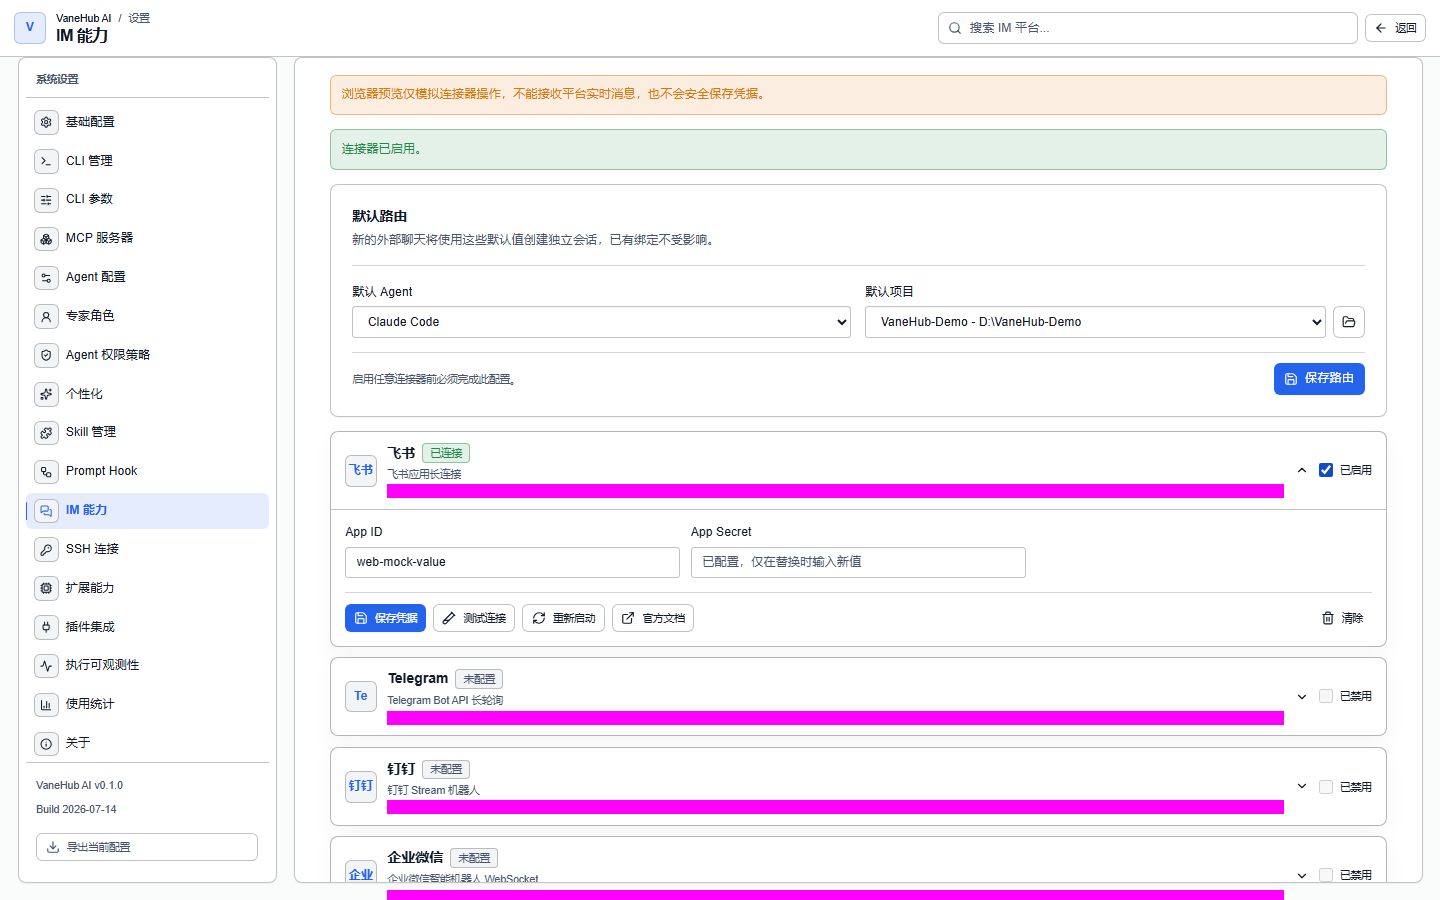
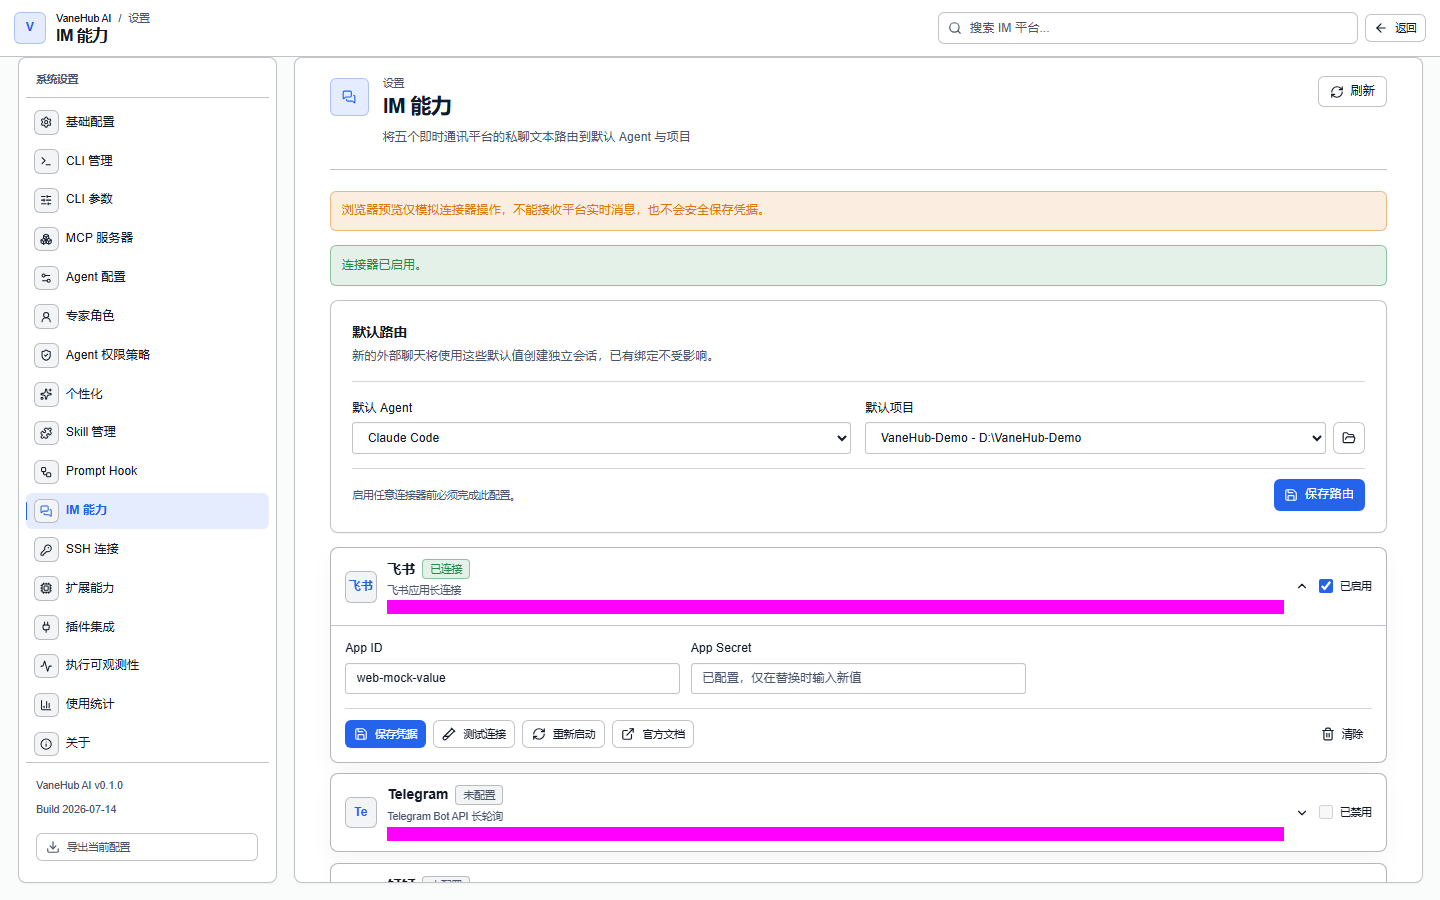
fix(docs): stabilize connected IM screenshot

diff --git a/tests/docs/documentation-screenshots.spec.ts b/tests/docs/documentation-screenshots.spec.ts
@@ -261,6 +261,13 @@ const scenarios: Record<string, (page: Page, locale: Locale) => Promise<Locator>
       shell.getByText(text(locale, "已连接", "Connected")).filter(visible).first(),
     ).toBeVisible({ timeout: 15_000 });
     await dismissToasts(page, locale);
+    const activeSettingsPage = shell.locator("div.h-full.overflow-y-auto").filter(visible);
+    await expect(activeSettingsPage).toHaveCount(1);
+    await activeSettingsPage.evaluate((element) => {
+      element.scrollTop = 0;
+      element.scrollLeft = 0;
+    });
+    await expect.poll(() => activeSettingsPage.evaluate((element) => element.scrollTop)).toBe(0);
     return shell;
   },
 
